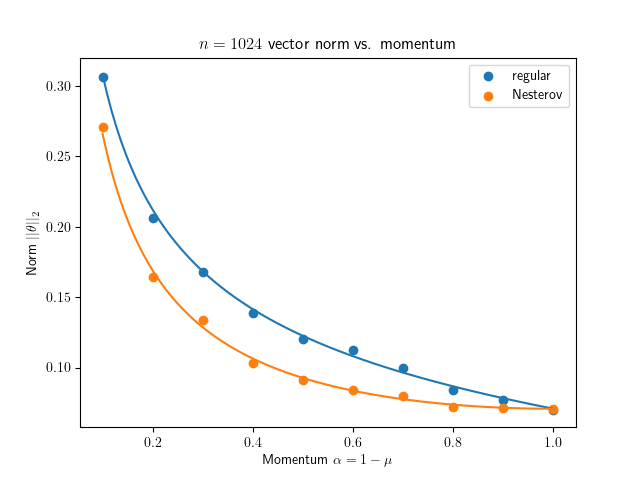
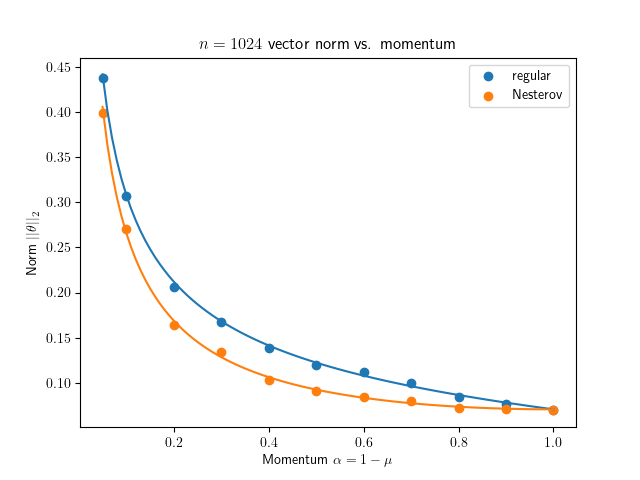
alpha = 1 - mu = 0.05 datapoints (Muon default)

diff --git a/matrix_scion_random_simulation.py b/matrix_scion_random_simulation.py
@@ -83,6 +83,7 @@ def main():
   args = parser.parse_args()
 
   momentum = np.linspace(0.1, 1., num=10)
+  momentum = np.insert(momentum, 0, 0.05)
   regular = []
   nesterov_mo = []
 
@@ -102,7 +103,8 @@ def main():
   plt.ylabel("Norm $||\\theta||_F$")
   plt.legend()
 
-  grid = np.linspace(0.1, 1., num=100)
+  t = (np.linspace(0.05, 0.1, num=5, endpoint=False), np.linspace(0.1, 1., num=91))
+  grid = np.concatenate(t)
   pred = np.sqrt(min(args.m, args.n) * args.lr / args.wd / 2 * (2 - grid) / grid)
   nesterov_pred = pred / np.sqrt(1 + 4*grid - 6*grid**2 + 2*grid**3)
 

diff --git a/vector_scion_random_simulation.py b/vector_scion_random_simulation.py
@@ -50,6 +50,7 @@ def main():
   args = parser.parse_args()
 
   momentum = np.linspace(0.1, 1., num=10)
+  momentum = np.insert(momentum, 0, 0.05)
   regular = []
   nesterov_mo = []
 
@@ -69,7 +70,8 @@ def main():
   plt.ylabel("Norm $||\\theta||_2$")
   plt.legend()
 
-  grid = np.linspace(0.1, 1., num=100)
+  t = (np.linspace(0.05, 0.1, num=5, endpoint=False), np.linspace(0.1, 1., num=91))
+  grid = np.concatenate(t)
   pred = np.sqrt(args.lr / 2 / args.wd * (2 - grid) / grid)
   nesterov_pred = pred / np.sqrt(1 + 4*grid - 6*grid**2 + 2*grid**3)
 
